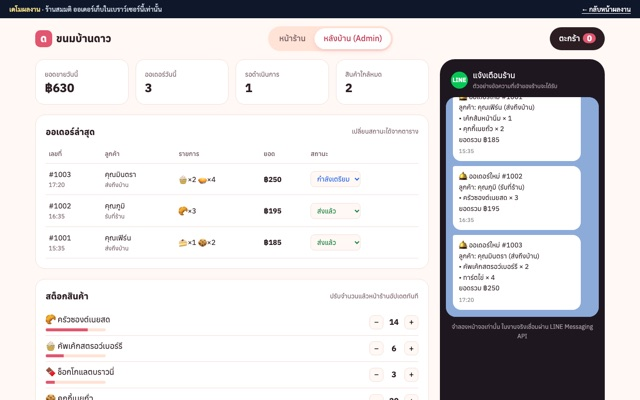
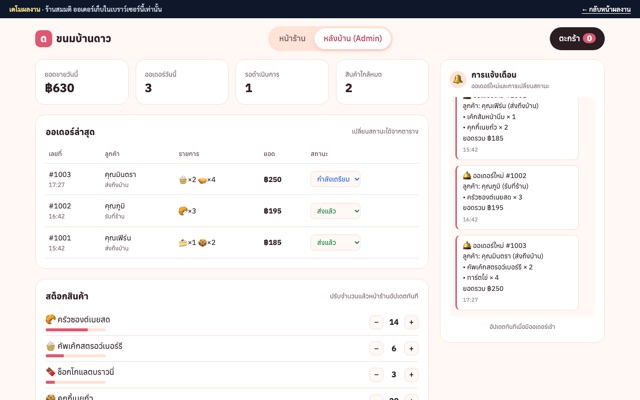
Drop LINE from /work and the demos
LINE integration is no longer on offer, so nothing on the Fastwork-facing
pages should promise it:

- /work loses the "LINE Integration" service card (services are now three:
  landing page, multi-page site, back office) and the shop card no longer
  mentions LINE alerts.
- The shop demo's LINE phone mock becomes a plain notification feed in the
  dashboard; new orders and status changes still show up there live.
- cafe.html's outline button class is renamed from btn-line to btn-outline
  so a search for LINE comes back empty.

Changed region(s): [[0.6875, 0.15, 0.9688, 1.0]]

diff --git a/demos/shop.html b/demos/shop.html
@@ -5,11 +5,11 @@
 <meta name="viewport" content="width=device-width, initial-scale=1.0" />
 <title>ขนมบ้านดาว — เดโมร้านค้าออนไลน์ + ระบบหลังบ้าน</title>
 <meta name="robots" content="noindex" />
-<meta name="description" content="เดโมร้านค้าออนไลน์พร้อมระบบหลังบ้านและแจ้งเตือนออเดอร์แบบ LINE ของร้านสมมติ โดย Suwapat Saelee" />
+<meta name="description" content="เดโมร้านค้าออนไลน์พร้อมระบบหลังบ้านและแจ้งเตือนออเดอร์ของร้านสมมติ โดย Suwapat Saelee" />
 <!--
   Demo for the Premium package: a fictional bakery's online shop with a cart
   and checkout, plus the owner's back office — orders, statuses, stock — and a
-  mock of the LINE order alert a real build would push. Orders live in this
+  live feed of order alerts in the dashboard. Orders live in this
   browser only (localStorage, with an in-memory fallback); nothing is sent.
 -->
 <link rel="preconnect" href="https://fonts.googleapis.com" />
@@ -19,7 +19,7 @@
 <style>
   :root{
     --bg:#fff8f4; --card:#fff; --rose:#e2566f; --rose-d:#c03d56; --peach:#ffe3d6; --butter:#fff1c7;
-    --ink:#2b1d22; --muted:#7a6268; --line:#f1dfd8; --green:#06c755; --side:#1f1720;
+    --ink:#2b1d22; --muted:#7a6268; --line:#f1dfd8;
     --font:'Anuphan',system-ui,sans-serif;
   }
   *{box-sizing:border-box;margin:0;padding:0}
@@ -108,21 +108,21 @@
   .bar{height:6px;border-radius:6px;background:var(--peach);overflow:hidden;margin-top:4px;width:120px}
   .bar i{display:block;height:100%;background:var(--rose)}
 
-  /* LINE mock */
-  .phone{background:var(--side);border-radius:30px;padding:12px;position:sticky;top:60px}
-  .phone-top{color:#fff;display:flex;align-items:center;gap:10px;padding:8px 10px 12px}
-  .phone-top i{width:34px;height:34px;border-radius:50%;background:var(--green);display:grid;place-items:center;font-style:normal;font-weight:700;font-size:.75rem}
-  .phone-top small{display:block;color:#a99ea6;font-size:.72rem}
-  .chat{background:#8cabd9;border-radius:20px;padding:14px;height:440px;overflow:auto;display:flex;flex-direction:column;gap:10px}
-  .msg{background:#fff;border-radius:4px 16px 16px 16px;padding:10px 12px;font-size:.84rem;max-width:92%;white-space:pre-line;animation:pop .35s ease}
+  /* notification feed: every new order or status change lands here */
+  .feed{background:var(--card);border:1px solid var(--line);border-radius:20px;padding:18px;position:sticky;top:60px;align-self:start}
+  .feed-top{display:flex;align-items:center;gap:10px;margin-bottom:12px}
+  .feed-top i{width:34px;height:34px;border-radius:50%;background:var(--peach);display:grid;place-items:center;font-style:normal;font-size:1rem}
+  .feed-top small{display:block;color:var(--muted);font-size:.75rem}
+  .chat{background:var(--bg);border-radius:14px;padding:12px;height:440px;overflow:auto;display:flex;flex-direction:column;gap:10px}
+  .msg{background:#fff;border:1px solid var(--line);border-left:3px solid var(--rose);border-radius:10px;padding:10px 12px;font-size:.84rem;max-width:92%;white-space:pre-line;animation:pop .35s ease}
   .msg time{display:block;color:#8b8b8b;font-size:.7rem;margin-top:4px}
   @keyframes pop{from{opacity:0;transform:translateY(6px)}to{opacity:1}}
-  .note{color:#a99ea6;font-size:.75rem;text-align:center;padding:10px 6px 4px}
+  .note{color:var(--muted);font-size:.75rem;text-align:center;padding:10px 6px 4px}
 
   @media(max-width:1000px){
     .grid{grid-template-columns:repeat(3,1fr)}
     .admin{grid-template-columns:1fr}
-    .phone{position:static}
+    .feed{position:static}
   }
   @media(max-width:700px){
     .grid{grid-template-columns:repeat(2,1fr);gap:12px}
@@ -187,10 +187,10 @@
       </div>
       <button class="primary" id="reset" style="background:var(--ink);max-width:260px">รีเซ็ตข้อมูลเดโม</button>
     </div>
-    <aside class="phone" aria-label="ตัวอย่างการแจ้งเตือนผ่าน LINE">
-      <div class="phone-top"><i>LINE</i><div>แจ้งเตือนร้าน<small>ตัวอย่างข้อความที่เจ้าของร้านจะได้รับ</small></div></div>
-      <div class="chat" id="chat"></div>
-      <p class="note">จำลองหน้าจอเท่านั้น ในงานจริงเชื่อมผ่าน LINE Messaging API</p>
+    <aside class="feed" aria-label="การแจ้งเตือนของร้าน">
+      <div class="feed-top"><i aria-hidden="true">🔔</i><div><b>การแจ้งเตือน</b><small>ออเดอร์ใหม่และการเปลี่ยนสถานะ</small></div></div>
+      <div class="chat" id="chat" aria-live="polite"></div>
+      <p class="note">อัปเดตทันทีเมื่อมีออเดอร์เข้า</p>
     </aside>
   </div>
 </div>
@@ -349,7 +349,7 @@
     S.orders.slice().reverse().forEach(o => pushLine(o, false)); renderAll(); toast('รีเซ็ตข้อมูลเดโมแล้ว');
   };
 
-  // ---- LINE mock ----
+  // ---- notification feed ----
   function addMsg(text, at, scroll){
     const chat = document.getElementById('chat');
     const m = document.createElement('div'); m.className = 'msg';

diff --git a/work.html b/work.html
@@ -57,7 +57,7 @@
   .spell .btn{align-self:flex-start}
 
   /* ---------- services ---------- */
-  .svc-grid{display:grid;grid-template-columns:repeat(4,1fr);gap:18px}
+  .svc-grid{display:grid;grid-template-columns:repeat(3,1fr);gap:18px}
   .svc{background:var(--night);border:1px solid var(--line);border-radius:14px;padding:24px 22px;
     position:relative;overflow:hidden;transition:.25s}
   .svc::before{content:"";position:absolute;inset:0 0 auto 0;height:2px;
@@ -72,7 +72,7 @@
 
   footer .foot{justify-content:center}
 
-  @media(max-width:960px){ .svc-grid{grid-template-columns:repeat(2,1fr)} }
+  @media(max-width:860px){ .svc-grid{grid-template-columns:1fr} }
   @media(max-width:700px){ .work-grid{grid-template-columns:1fr} }
   @media(max-width:480px){
     .svc-grid{grid-template-columns:1fr}
@@ -113,12 +113,12 @@
       <div class="work-grid">
 
         <article class="spell">
-          <img src="/images/thumb-demo-shop.jpg" alt="Screenshot of the bakery shop's admin dashboard with a LINE order alert" loading="lazy" width="640" height="400" />
+          <img src="/images/thumb-demo-shop.jpg" alt="Screenshot of the bakery shop's admin dashboard" loading="lazy" width="640" height="400" />
           <div class="spell-body">
             <p class="kind" data-en="Demo · Online shop + admin" data-th="เดโม · ร้านค้าออนไลน์ + หลังบ้าน">Demo · Online shop + admin</p>
             <h3 data-en="Bakery Shop with Back Office" data-th="ร้านขนมออนไลน์พร้อมระบบหลังบ้าน">Bakery Shop with Back Office</h3>
-            <p data-en="Customers fill a cart and check out; the owner tracks orders, changes their status and edits stock, with each new order shown as a LINE alert." data-th="ลูกค้าเลือกสินค้าลงตะกร้าและสั่งซื้อ เจ้าของร้านดูออเดอร์ เปลี่ยนสถานะ ปรับสต็อก และเห็นตัวอย่างแจ้งเตือนออเดอร์ใหม่ผ่าน LINE">Customers fill a cart and check out; the owner tracks orders, changes their status and edits stock, with each new order shown as a LINE alert.</p>
-            <ul class="stack" aria-label="Tech stack"><li>HTML</li><li>CSS</li><li>JavaScript</li><li>LINE alert mock</li></ul>
+            <p data-en="Customers fill a cart and check out; the owner tracks orders, changes their status and edits stock, with every new order flagged the moment it arrives." data-th="ลูกค้าเลือกสินค้าลงตะกร้าและสั่งซื้อ เจ้าของร้านดูออเดอร์ เปลี่ยนสถานะ ปรับสต็อก และเห็นการแจ้งเตือนทันทีเมื่อมีออเดอร์ใหม่">Customers fill a cart and check out; the owner tracks orders, changes their status and edits stock, with every new order flagged the moment it arrives.</p>
+            <ul class="stack" aria-label="Tech stack"><li>HTML</li><li>CSS</li><li>JavaScript</li></ul>
             <a class="btn btn-ghost" href="/demos/shop.html">Live Demo →</a>
           </div>
         </article>
@@ -188,11 +188,6 @@
           <p class="no">03</p>
           <h3 data-en="Back Office / Admin" data-th="ระบบหลังบ้าน / Admin">Back Office / Admin</h3>
           <p data-en="A dashboard where you manage your own products, bookings and content." data-th="หน้าแอดมินให้คุณจัดการสินค้า การจอง และเนื้อหาได้เอง">A dashboard where you manage your own products, bookings and content.</p>
-        </div>
-        <div class="svc">
-          <p class="no">04</p>
-          <h3 data-en="LINE Integration" data-th="เชื่อมต่อ LINE">LINE Integration</h3>
-          <p data-en="Connect your site to LINE: sign in with LINE, and order or booking alerts sent to your LINE." data-th="เชื่อมเว็บกับ LINE เช่น ล็อกอินด้วย LINE และแจ้งเตือนออเดอร์หรือการจองเข้า LINE">Connect your site to LINE: sign in with LINE, and order or booking alerts sent to your LINE.</p>
         </div>
       </div>
     </section>

diff --git a/demos/cafe.html b/demos/cafe.html
@@ -9,7 +9,7 @@
 <!--
   Demo for the Basic package: a one-page landing site for a fictional café.
   Everything here is invented and nothing links out; the "order" buttons only
-  show a note, since a real shop's LINE OA would go there. The single link
+  show a note, since a real shop's ordering channel would go there. The single link
   leaves for /work, the page Fastwork points at.
 -->
 <link rel="preconnect" href="https://fonts.googleapis.com" />
@@ -31,8 +31,8 @@
     padding:14px 28px;border-radius:999px;border:2px solid var(--espresso);cursor:pointer;font-size:1rem;transition:.2s}
   .btn-dark{background:var(--espresso);color:var(--paper)}
   .btn-dark:hover{background:var(--mocha);border-color:var(--mocha)}
-  .btn-line{background:transparent;color:var(--espresso)}
-  .btn-line:hover{background:var(--espresso);color:var(--paper)}
+  .btn-outline{background:transparent;color:var(--espresso)}
+  .btn-outline:hover{background:var(--espresso);color:var(--paper)}
 
   /* nav */
   .nav{display:flex;justify-content:space-between;align-items:center;padding:20px 0}
@@ -141,7 +141,7 @@
       <p>เมล็ดคั่วสดทุกสัปดาห์จากดอยทางเหนือ ชงทีละแก้วด้วยความใส่ใจ พร้อมขนมอบใหม่ทุกเช้า</p>
       <div class="hero-cta">
         <a class="btn btn-dark" href="#menu">ดูเมนู</a>
-        <button class="btn btn-line" data-demo="สั่งกลับบ้าน">สั่งกลับบ้าน</button>
+        <button class="btn btn-outline" data-demo="สั่งกลับบ้าน">สั่งกลับบ้าน</button>
       </div>
     </div>
     <div class="hero-art" aria-hidden="true">
